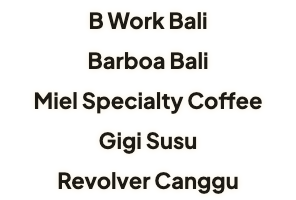
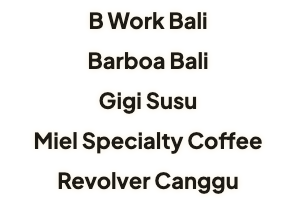
Map story: the 1.6 cast (Q1546 (b), UUUUUUUUUUUU 8 and VVVVVVVVVVVV 4)
- tools/draw_map.py's PEOPLE: B Work Bali holds Amira, Daria, Freya and Nico (faces Amira, Daria and
  Freya, then "+1" for Nico); Imani stays at Barboa Bali; Miel Specialty Coffee goes quiet. Freya
  replaces Elena (the words file's section 7), and Tobias leaves the data.
- Redrawn with the same OSM download and app main 5ec6e466's docs/data/canggu-cafes.csv: the map's
  drawing is unchanged byte for byte; the pins in index.html and id/index.html, the narrower maps'
  rules in welcome.css and the names' image (pin-names-2x/-3x.webp) follow the new order.
- assets/story/face-freya-2x/-3x.webp made from cast-portraits-v3 the README's way (sips -z 52 and 78,
  cwebp -q 86 -m 6 -sharp_yuv); the same pipeline gives the four kept faces byte for byte.
  face-elena-2x/-3x.webp go. face-nico stays in the repo, unused by the pins now (Nico is the "+1").
- Restamped (tools/stamp.py). Still inside Zayd's override for the scroll story (decision 5247), with
  its disclaimer.

Changed region(s): [[0.0912, 0.45, 0.8818, 0.57], [0.0912, 0.66, 0.8818, 0.78]]

diff --git a/id/index.html b/id/index.html
@@ -25,7 +25,7 @@
 <link rel="icon" href="../favicon-32.png" type="image/png" sizes="32x32">
 <link rel="apple-touch-icon" href="../apple-touch-icon.png">
 <link rel="stylesheet" href="../assets/site.css?v=972639a4">
-<link rel="stylesheet" href="../assets/welcome.css?v=d5494674">
+<link rel="stylesheet" href="../assets/welcome.css?v=1ace0a58">
 <link rel="preload" href="../assets/fonts/bricolage-display.woff2" as="font" type="font/woff2" crossorigin>
 <link rel="preload" href="../assets/fonts/jakarta-400.woff2" as="font" type="font/woff2" crossorigin>
 <script src="../assets/site.js?v=cd7b44de" defer></script>
@@ -132,11 +132,11 @@
         <svg class="pin-defs" width="0" height="0" aria-hidden="true"><symbol id="pin-cup" viewBox="0 0 256 256"><path fill="currentColor" d="M212 76H32a12 12 0 0 0-12 12v48a100.24 100.24 0 0 0 26.73 68H32a12 12 0 0 0 0 24h176a12 12 0 0 0 0-24h-14.73a100.8 100.8 0 0 0 20-32A44 44 0 0 0 256 128v-8a44.05 44.05 0 0 0-44-44m-16 60a76.27 76.27 0 0 1-42 68H86a76.27 76.27 0 0 1-42-68v-36h152Zm36-8a20 20 0 0 1-12.57 18.55A97 97 0 0 0 220 136v-34.32A20 20 0 0 1 232 120ZM68 48V24a12 12 0 0 1 24 0v24a12 12 0 0 1-24 0m40 0V24a12 12 0 0 1 24 0v24a12 12 0 0 1-24 0m40 0V24a12 12 0 0 1 24 0v24a12 12 0 0 1-24 0"/></symbol></svg>
         <ul class="pins" aria-hidden="true">
           <!-- pins: start -->
-          <li class="pin" data-pin="1" style="--x: 224.8; --y: 587.1; --more: '+1'"><span class="pin-mark"><span class="pin-pill" style="width: 125px"><svg class="pin-cup" width="16" height="16" aria-hidden="true"><use href="#pin-cup"/></svg><span class="pin-faces"><img src="../assets/story/face-daria-2x.webp?v=00703884" srcset="../assets/story/face-daria-2x.webp?v=00703884 2x, ../assets/story/face-daria-3x.webp?v=8784fc88 3x" width="26" height="26" alt="" aria-hidden="true" loading="lazy" decoding="async"><img src="../assets/story/face-elena-2x.webp?v=ca274b21" srcset="../assets/story/face-elena-2x.webp?v=ca274b21 2x, ../assets/story/face-elena-3x.webp?v=c42cd8ee 3x" width="26" height="26" alt="" aria-hidden="true" loading="lazy" decoding="async"><img src="../assets/story/face-nico-2x.webp?v=24e6078f" srcset="../assets/story/face-nico-2x.webp?v=24e6078f 2x, ../assets/story/face-nico-3x.webp?v=53a3f6da 3x" width="26" height="26" alt="" aria-hidden="true" loading="lazy" decoding="async"><span class="pin-more">+1</span></span><span class="pin-badge"></span></span><span class="pin-name"><img src="../assets/story/pin-names-2x.webp?v=1fcd2094" srcset="../assets/story/pin-names-2x.webp?v=1fcd2094 2x, ../assets/story/pin-names-3x.webp?v=e123eb09 3x" width="148" height="100" alt="" aria-hidden="true" loading="lazy" decoding="async" style="top: -0px"></span></span></li>
-          <li class="pin" data-pin="2" style="--x: 120.0; --y: 239.6"><span class="pin-mark"><span class="pin-pill" style="width: 62px"><svg class="pin-cup" width="16" height="16" aria-hidden="true"><use href="#pin-cup"/></svg><span class="pin-faces"><img src="../assets/story/face-imani-2x.webp?v=b043388f" srcset="../assets/story/face-imani-2x.webp?v=b043388f 2x, ../assets/story/face-imani-3x.webp?v=cbc938de 3x" width="26" height="26" alt="" aria-hidden="true" loading="lazy" decoding="async"></span></span><span class="pin-name"><img src="../assets/story/pin-names-2x.webp?v=1fcd2094" srcset="../assets/story/pin-names-2x.webp?v=1fcd2094 2x, ../assets/story/pin-names-3x.webp?v=e123eb09 3x" width="148" height="100" alt="" aria-hidden="true" loading="lazy" decoding="async" style="top: -20px"></span></span></li>
-          <li class="pin" data-pin="3" style="--x: 560.0; --y: 58.9"><span class="pin-mark"><span class="pin-pill" style="width: 62px"><svg class="pin-cup" width="16" height="16" aria-hidden="true"><use href="#pin-cup"/></svg><span class="pin-faces"><img src="../assets/story/face-amira-2x.webp?v=3eabc782" srcset="../assets/story/face-amira-2x.webp?v=3eabc782 2x, ../assets/story/face-amira-3x.webp?v=5daa4919 3x" width="26" height="26" alt="" aria-hidden="true" loading="lazy" decoding="async"></span></span><span class="pin-name"><img src="../assets/story/pin-names-2x.webp?v=1fcd2094" srcset="../assets/story/pin-names-2x.webp?v=1fcd2094 2x, ../assets/story/pin-names-3x.webp?v=e123eb09 3x" width="148" height="100" alt="" aria-hidden="true" loading="lazy" decoding="async" style="top: -40px"></span></span></li>
-          <li class="pin" data-pin="4" style="--x: 84.1; --y: 577.7"><span class="pin-mark"><span class="pin-quiet"><svg class="pin-cup" width="16" height="16" aria-hidden="true"><use href="#pin-cup"/></svg></span><span class="pin-name"><img src="../assets/story/pin-names-2x.webp?v=1fcd2094" srcset="../assets/story/pin-names-2x.webp?v=1fcd2094 2x, ../assets/story/pin-names-3x.webp?v=e123eb09 3x" width="148" height="100" alt="" aria-hidden="true" loading="lazy" decoding="async" style="top: -60px"></span></span></li>
-          <li class="pin" data-pin="5" style="--x: 240.3; --y: 551.8"><span class="pin-mark" hidden><span class="pin-quiet"><svg class="pin-cup" width="16" height="16" aria-hidden="true"><use href="#pin-cup"/></svg></span><span class="pin-name"><img src="../assets/story/pin-names-2x.webp?v=1fcd2094" srcset="../assets/story/pin-names-2x.webp?v=1fcd2094 2x, ../assets/story/pin-names-3x.webp?v=e123eb09 3x" width="148" height="100" alt="" aria-hidden="true" loading="lazy" decoding="async" style="top: -80px"></span></span></li>
+          <li class="pin" data-pin="1" style="--x: 224.8; --y: 587.1; --more: '+1'"><span class="pin-mark"><span class="pin-pill" style="width: 125px"><svg class="pin-cup" width="16" height="16" aria-hidden="true"><use href="#pin-cup"/></svg><span class="pin-faces"><img src="../assets/story/face-amira-2x.webp?v=3eabc782" srcset="../assets/story/face-amira-2x.webp?v=3eabc782 2x, ../assets/story/face-amira-3x.webp?v=5daa4919 3x" width="26" height="26" alt="" aria-hidden="true" loading="lazy" decoding="async"><img src="../assets/story/face-daria-2x.webp?v=00703884" srcset="../assets/story/face-daria-2x.webp?v=00703884 2x, ../assets/story/face-daria-3x.webp?v=8784fc88 3x" width="26" height="26" alt="" aria-hidden="true" loading="lazy" decoding="async"><img src="../assets/story/face-freya-2x.webp?v=9e70784c" srcset="../assets/story/face-freya-2x.webp?v=9e70784c 2x, ../assets/story/face-freya-3x.webp?v=ddda0d96 3x" width="26" height="26" alt="" aria-hidden="true" loading="lazy" decoding="async"><span class="pin-more">+1</span></span><span class="pin-badge"></span></span><span class="pin-name"><img src="../assets/story/pin-names-2x.webp?v=904c7d33" srcset="../assets/story/pin-names-2x.webp?v=904c7d33 2x, ../assets/story/pin-names-3x.webp?v=06196c9e 3x" width="148" height="100" alt="" aria-hidden="true" loading="lazy" decoding="async" style="top: -0px"></span></span></li>
+          <li class="pin" data-pin="2" style="--x: 120.0; --y: 239.6"><span class="pin-mark"><span class="pin-pill" style="width: 62px"><svg class="pin-cup" width="16" height="16" aria-hidden="true"><use href="#pin-cup"/></svg><span class="pin-faces"><img src="../assets/story/face-imani-2x.webp?v=b043388f" srcset="../assets/story/face-imani-2x.webp?v=b043388f 2x, ../assets/story/face-imani-3x.webp?v=cbc938de 3x" width="26" height="26" alt="" aria-hidden="true" loading="lazy" decoding="async"></span></span><span class="pin-name"><img src="../assets/story/pin-names-2x.webp?v=904c7d33" srcset="../assets/story/pin-names-2x.webp?v=904c7d33 2x, ../assets/story/pin-names-3x.webp?v=06196c9e 3x" width="148" height="100" alt="" aria-hidden="true" loading="lazy" decoding="async" style="top: -20px"></span></span></li>
+          <li class="pin" data-pin="3" style="--x: 84.1; --y: 577.7"><span class="pin-mark"><span class="pin-quiet"><svg class="pin-cup" width="16" height="16" aria-hidden="true"><use href="#pin-cup"/></svg></span><span class="pin-name"><img src="../assets/story/pin-names-2x.webp?v=904c7d33" srcset="../assets/story/pin-names-2x.webp?v=904c7d33 2x, ../assets/story/pin-names-3x.webp?v=06196c9e 3x" width="148" height="100" alt="" aria-hidden="true" loading="lazy" decoding="async" style="top: -40px"></span></span></li>
+          <li class="pin" data-pin="4" style="--x: 560.0; --y: 58.9"><span class="pin-mark"><span class="pin-quiet"><svg class="pin-cup" width="16" height="16" aria-hidden="true"><use href="#pin-cup"/></svg></span><span class="pin-name"><img src="../assets/story/pin-names-2x.webp?v=904c7d33" srcset="../assets/story/pin-names-2x.webp?v=904c7d33 2x, ../assets/story/pin-names-3x.webp?v=06196c9e 3x" width="148" height="100" alt="" aria-hidden="true" loading="lazy" decoding="async" style="top: -60px"></span></span></li>
+          <li class="pin" data-pin="5" style="--x: 240.3; --y: 551.8"><span class="pin-mark" hidden><span class="pin-quiet"><svg class="pin-cup" width="16" height="16" aria-hidden="true"><use href="#pin-cup"/></svg></span><span class="pin-name"><img src="../assets/story/pin-names-2x.webp?v=904c7d33" srcset="../assets/story/pin-names-2x.webp?v=904c7d33 2x, ../assets/story/pin-names-3x.webp?v=06196c9e 3x" width="148" height="100" alt="" aria-hidden="true" loading="lazy" decoding="async" style="top: -80px"></span></span></li>
           <!-- pins: end -->
         </ul>
         <div class="story-card" lang="en">

diff --git a/index.html b/index.html
@@ -25,7 +25,7 @@
 <link rel="icon" href="favicon-32.png" type="image/png" sizes="32x32">
 <link rel="apple-touch-icon" href="apple-touch-icon.png">
 <link rel="stylesheet" href="assets/site.css?v=972639a4">
-<link rel="stylesheet" href="assets/welcome.css?v=d5494674">
+<link rel="stylesheet" href="assets/welcome.css?v=1ace0a58">
 <link rel="preload" href="assets/fonts/bricolage-display.woff2" as="font" type="font/woff2" crossorigin>
 <link rel="preload" href="assets/fonts/jakarta-400.woff2" as="font" type="font/woff2" crossorigin>
 <script src="assets/site.js?v=cd7b44de" defer></script>
@@ -132,11 +132,11 @@
         <svg class="pin-defs" width="0" height="0" aria-hidden="true"><symbol id="pin-cup" viewBox="0 0 256 256"><path fill="currentColor" d="M212 76H32a12 12 0 0 0-12 12v48a100.24 100.24 0 0 0 26.73 68H32a12 12 0 0 0 0 24h176a12 12 0 0 0 0-24h-14.73a100.8 100.8 0 0 0 20-32A44 44 0 0 0 256 128v-8a44.05 44.05 0 0 0-44-44m-16 60a76.27 76.27 0 0 1-42 68H86a76.27 76.27 0 0 1-42-68v-36h152Zm36-8a20 20 0 0 1-12.57 18.55A97 97 0 0 0 220 136v-34.32A20 20 0 0 1 232 120ZM68 48V24a12 12 0 0 1 24 0v24a12 12 0 0 1-24 0m40 0V24a12 12 0 0 1 24 0v24a12 12 0 0 1-24 0m40 0V24a12 12 0 0 1 24 0v24a12 12 0 0 1-24 0"/></symbol></svg>
         <ul class="pins" aria-hidden="true">
           <!-- pins: start -->
-          <li class="pin" data-pin="1" style="--x: 224.8; --y: 587.1; --more: '+1'"><span class="pin-mark"><span class="pin-pill" style="width: 125px"><svg class="pin-cup" width="16" height="16" aria-hidden="true"><use href="#pin-cup"/></svg><span class="pin-faces"><img src="assets/story/face-daria-2x.webp?v=00703884" srcset="assets/story/face-daria-2x.webp?v=00703884 2x, assets/story/face-daria-3x.webp?v=8784fc88 3x" width="26" height="26" alt="" aria-hidden="true" loading="lazy" decoding="async"><img src="assets/story/face-elena-2x.webp?v=ca274b21" srcset="assets/story/face-elena-2x.webp?v=ca274b21 2x, assets/story/face-elena-3x.webp?v=c42cd8ee 3x" width="26" height="26" alt="" aria-hidden="true" loading="lazy" decoding="async"><img src="assets/story/face-nico-2x.webp?v=24e6078f" srcset="assets/story/face-nico-2x.webp?v=24e6078f 2x, assets/story/face-nico-3x.webp?v=53a3f6da 3x" width="26" height="26" alt="" aria-hidden="true" loading="lazy" decoding="async"><span class="pin-more">+1</span></span><span class="pin-badge"></span></span><span class="pin-name"><img src="assets/story/pin-names-2x.webp?v=1fcd2094" srcset="assets/story/pin-names-2x.webp?v=1fcd2094 2x, assets/story/pin-names-3x.webp?v=e123eb09 3x" width="148" height="100" alt="" aria-hidden="true" loading="lazy" decoding="async" style="top: -0px"></span></span></li>
-          <li class="pin" data-pin="2" style="--x: 120.0; --y: 239.6"><span class="pin-mark"><span class="pin-pill" style="width: 62px"><svg class="pin-cup" width="16" height="16" aria-hidden="true"><use href="#pin-cup"/></svg><span class="pin-faces"><img src="assets/story/face-imani-2x.webp?v=b043388f" srcset="assets/story/face-imani-2x.webp?v=b043388f 2x, assets/story/face-imani-3x.webp?v=cbc938de 3x" width="26" height="26" alt="" aria-hidden="true" loading="lazy" decoding="async"></span></span><span class="pin-name"><img src="assets/story/pin-names-2x.webp?v=1fcd2094" srcset="assets/story/pin-names-2x.webp?v=1fcd2094 2x, assets/story/pin-names-3x.webp?v=e123eb09 3x" width="148" height="100" alt="" aria-hidden="true" loading="lazy" decoding="async" style="top: -20px"></span></span></li>
-          <li class="pin" data-pin="3" style="--x: 560.0; --y: 58.9"><span class="pin-mark"><span class="pin-pill" style="width: 62px"><svg class="pin-cup" width="16" height="16" aria-hidden="true"><use href="#pin-cup"/></svg><span class="pin-faces"><img src="assets/story/face-amira-2x.webp?v=3eabc782" srcset="assets/story/face-amira-2x.webp?v=3eabc782 2x, assets/story/face-amira-3x.webp?v=5daa4919 3x" width="26" height="26" alt="" aria-hidden="true" loading="lazy" decoding="async"></span></span><span class="pin-name"><img src="assets/story/pin-names-2x.webp?v=1fcd2094" srcset="assets/story/pin-names-2x.webp?v=1fcd2094 2x, assets/story/pin-names-3x.webp?v=e123eb09 3x" width="148" height="100" alt="" aria-hidden="true" loading="lazy" decoding="async" style="top: -40px"></span></span></li>
-          <li class="pin" data-pin="4" style="--x: 84.1; --y: 577.7"><span class="pin-mark"><span class="pin-quiet"><svg class="pin-cup" width="16" height="16" aria-hidden="true"><use href="#pin-cup"/></svg></span><span class="pin-name"><img src="assets/story/pin-names-2x.webp?v=1fcd2094" srcset="assets/story/pin-names-2x.webp?v=1fcd2094 2x, assets/story/pin-names-3x.webp?v=e123eb09 3x" width="148" height="100" alt="" aria-hidden="true" loading="lazy" decoding="async" style="top: -60px"></span></span></li>
-          <li class="pin" data-pin="5" style="--x: 240.3; --y: 551.8"><span class="pin-mark" hidden><span class="pin-quiet"><svg class="pin-cup" width="16" height="16" aria-hidden="true"><use href="#pin-cup"/></svg></span><span class="pin-name"><img src="assets/story/pin-names-2x.webp?v=1fcd2094" srcset="assets/story/pin-names-2x.webp?v=1fcd2094 2x, assets/story/pin-names-3x.webp?v=e123eb09 3x" width="148" height="100" alt="" aria-hidden="true" loading="lazy" decoding="async" style="top: -80px"></span></span></li>
+          <li class="pin" data-pin="1" style="--x: 224.8; --y: 587.1; --more: '+1'"><span class="pin-mark"><span class="pin-pill" style="width: 125px"><svg class="pin-cup" width="16" height="16" aria-hidden="true"><use href="#pin-cup"/></svg><span class="pin-faces"><img src="assets/story/face-amira-2x.webp?v=3eabc782" srcset="assets/story/face-amira-2x.webp?v=3eabc782 2x, assets/story/face-amira-3x.webp?v=5daa4919 3x" width="26" height="26" alt="" aria-hidden="true" loading="lazy" decoding="async"><img src="assets/story/face-daria-2x.webp?v=00703884" srcset="assets/story/face-daria-2x.webp?v=00703884 2x, assets/story/face-daria-3x.webp?v=8784fc88 3x" width="26" height="26" alt="" aria-hidden="true" loading="lazy" decoding="async"><img src="assets/story/face-freya-2x.webp?v=9e70784c" srcset="assets/story/face-freya-2x.webp?v=9e70784c 2x, assets/story/face-freya-3x.webp?v=ddda0d96 3x" width="26" height="26" alt="" aria-hidden="true" loading="lazy" decoding="async"><span class="pin-more">+1</span></span><span class="pin-badge"></span></span><span class="pin-name"><img src="assets/story/pin-names-2x.webp?v=904c7d33" srcset="assets/story/pin-names-2x.webp?v=904c7d33 2x, assets/story/pin-names-3x.webp?v=06196c9e 3x" width="148" height="100" alt="" aria-hidden="true" loading="lazy" decoding="async" style="top: -0px"></span></span></li>
+          <li class="pin" data-pin="2" style="--x: 120.0; --y: 239.6"><span class="pin-mark"><span class="pin-pill" style="width: 62px"><svg class="pin-cup" width="16" height="16" aria-hidden="true"><use href="#pin-cup"/></svg><span class="pin-faces"><img src="assets/story/face-imani-2x.webp?v=b043388f" srcset="assets/story/face-imani-2x.webp?v=b043388f 2x, assets/story/face-imani-3x.webp?v=cbc938de 3x" width="26" height="26" alt="" aria-hidden="true" loading="lazy" decoding="async"></span></span><span class="pin-name"><img src="assets/story/pin-names-2x.webp?v=904c7d33" srcset="assets/story/pin-names-2x.webp?v=904c7d33 2x, assets/story/pin-names-3x.webp?v=06196c9e 3x" width="148" height="100" alt="" aria-hidden="true" loading="lazy" decoding="async" style="top: -20px"></span></span></li>
+          <li class="pin" data-pin="3" style="--x: 84.1; --y: 577.7"><span class="pin-mark"><span class="pin-quiet"><svg class="pin-cup" width="16" height="16" aria-hidden="true"><use href="#pin-cup"/></svg></span><span class="pin-name"><img src="assets/story/pin-names-2x.webp?v=904c7d33" srcset="assets/story/pin-names-2x.webp?v=904c7d33 2x, assets/story/pin-names-3x.webp?v=06196c9e 3x" width="148" height="100" alt="" aria-hidden="true" loading="lazy" decoding="async" style="top: -40px"></span></span></li>
+          <li class="pin" data-pin="4" style="--x: 560.0; --y: 58.9"><span class="pin-mark"><span class="pin-quiet"><svg class="pin-cup" width="16" height="16" aria-hidden="true"><use href="#pin-cup"/></svg></span><span class="pin-name"><img src="assets/story/pin-names-2x.webp?v=904c7d33" srcset="assets/story/pin-names-2x.webp?v=904c7d33 2x, assets/story/pin-names-3x.webp?v=06196c9e 3x" width="148" height="100" alt="" aria-hidden="true" loading="lazy" decoding="async" style="top: -60px"></span></span></li>
+          <li class="pin" data-pin="5" style="--x: 240.3; --y: 551.8"><span class="pin-mark" hidden><span class="pin-quiet"><svg class="pin-cup" width="16" height="16" aria-hidden="true"><use href="#pin-cup"/></svg></span><span class="pin-name"><img src="assets/story/pin-names-2x.webp?v=904c7d33" srcset="assets/story/pin-names-2x.webp?v=904c7d33 2x, assets/story/pin-names-3x.webp?v=06196c9e 3x" width="148" height="100" alt="" aria-hidden="true" loading="lazy" decoding="async" style="top: -80px"></span></span></li>
           <!-- pins: end -->
         </ul>
         <div class="story-card">

diff --git a/assets/welcome.css b/assets/welcome.css
@@ -269,15 +269,15 @@
   }
   @container (width < 425.31px) {
     .pin[data-pin="1"] { --more: '+3'; }
-    .pin[data-pin="4"] .pin-mark { display: none; }
+    .pin[data-pin="3"] .pin-mark { display: none; }
   }
   @container (width < 291.88px) {
     .pin[data-pin="1"] { --more: '+4'; }
-    .pin[data-pin="4"] .pin-mark { display: none; }
+    .pin[data-pin="3"] .pin-mark { display: none; }
   }
   @container (width < 255.69px) {
     .pin[data-pin="1"] { --more: '+5'; }
-    .pin[data-pin="4"] .pin-mark { display: none; }
+    .pin[data-pin="3"] .pin-mark { display: none; }
   }
   /* pins: end */
 

diff --git a/tools/draw_map.py b/tools/draw_map.py
@@ -58,13 +58,14 @@ W, H = 640, 620
 # 553 px at 1024 px wide; it is narrower only in short windows).
 MIN_WIDTH = 240
 
-# Who is working where (decisions 5249, 5250 and 5256): cast v3 only, each person at one café, one
-# café with four people so the app's "+N" shows; faces only at Miel Specialty Coffee and B Work Bali
-# (the window holds both) and one more café. Their faces are assets/story/face-<first name>-2x.webp
-# and -3x.webp (26 pt at 2x and 3x: the cast-v3 portrait, whole, as the app's Avatar shows it).
+# Who is working where (decisions 5249, 5250 and 5256; for 1.6, the auditor's UUUUUUUUUUUU 8 and
+# VVVVVVVVVVVV 4, Q1546 (b)): only the five cast-v3 members the 1.6 words allow (section 7's cast),
+# each person at one café, one café with four people so the app's "+N" shows: B Work Bali, faces
+# Amira, Daria and Freya, then "+1" for Nico; Miel Specialty Coffee quiet; Imani at Barboa Bali.
+# Their faces are assets/story/face-<first name>-2x.webp and -3x.webp (26 pt at 2x and 3x: the cast-v3
+# portrait, whole, as the app's Avatar shows it).
 PEOPLE = {
-    "B Work Bali": ["Daria Novak", "Elena Castell", "Nico Albers", "Tobias Lund"],
-    "Miel Specialty Coffee": ["Amira Khalil"],
+    "B Work Bali": ["Amira Khalil", "Daria Novak", "Freya Halden", "Nico Albers"],
     "Barboa Bali": ["Imani Brooks"],
 }
 # The cafés' names are drawn into an image (decision 5256: never page text): one row per name, in
